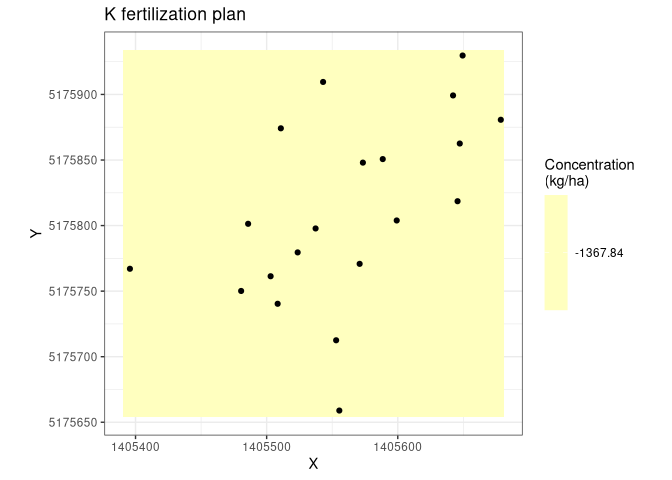
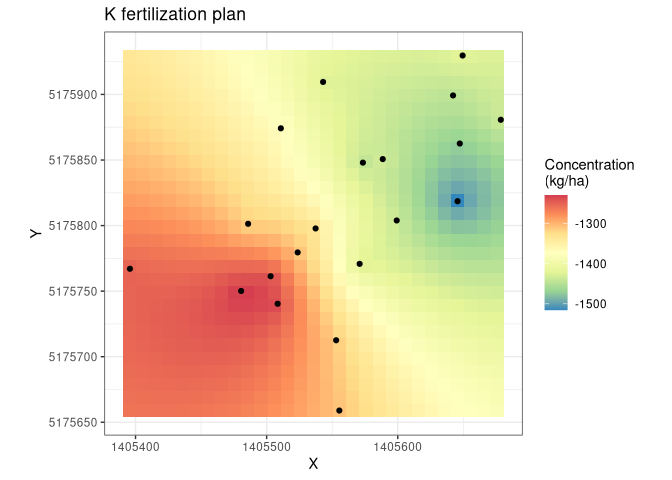
Updated vignettes for potassium

diff --git a/README.md b/README.md
@@ -102,8 +102,23 @@ with a 10 metres spatial resolution:
 
 ``` r
 spatials_l <- spatial_nutrient(soils_spatial, spat_res = 10)
+#> [1] "Model"
+#>   model    psill    range
+#> 1   Nug 3.130189  0.00000
+#> 2   Sph 6.490592 75.73972
+#> [1] ""
 #> [using ordinary kriging]
+#> [1] "Model"
+#>   model    psill    range kappa
+#> 1   Nug 243.2857   0.0000     0
+#> 2   Ste 393.4765 434.6112    10
+#> [1] ""
 #> [using ordinary kriging]
+#> [1] "Model"
+#>   model    psill    range kappa
+#> 1   Nug      0.0  0.00000     0
+#> 2   Ste 142534.6 28.57101    10
+#> [1] ""
 #> [using ordinary kriging]
 ```
 
@@ -138,9 +153,24 @@ model) and \[automap::autofitVariogram()\] (controlled by argument
 spatials_l <- c(
   spatial_nutrient(soils_spatial, model = "auto", spat_res = 10, nutrient = "nitrogen", alpha = seq(0, 359, 15)),
   spatial_nutrient(soils_spatial, model = "Ste",  spat_res = 10, nutrient = "phosphorus"),
-  spatial_nutrient(soils_spatial, model = "auto", spat_res = 10, nutrient = "potassium", alpha = seq(0, 359, 30)))
+  spatial_nutrient(soils_spatial, model = "auto", spat_res = 10, nutrient = "potassium", alpha = seq(0, 359, 15)))
+#> [1] "Model"
+#>   model    psill   range kappa
+#> 1   Nug 0.000000  0.0000     0
+#> 2   Ste 8.740936 29.9359     2
+#> [1] ""
 #> [using ordinary kriging]
+#> [1] "Model"
+#>   model psill range kappa
+#> 1   Nug    NA     0   0.0
+#> 2   Ste    NA    NA   0.5
+#> [1] ""
 #> [using ordinary kriging]
+#> [1] "Model"
+#>   model    psill    range kappa
+#> 1   Nug      0.0  0.00000   0.0
+#> 2   Ste 150922.3 86.36246   0.3
+#> [1] ""
 #> [using ordinary kriging]
 last_plot() %+% as.data.frame(spatials_l$n) %+% labs(title = "N fertilization plan")
 last_plot() %+% as.data.frame(spatials_l$p) %+% labs(title = "P fertilization plan")
